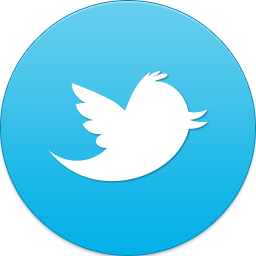
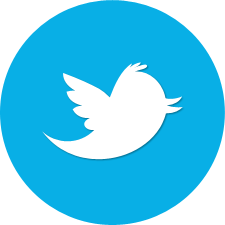
Main UI work

diff --git a/AVFios/www/views/main.html b/AVFios/www/views/main.html
@@ -1,22 +1,27 @@
 <div id="main" class="container-fluid">
-	<div id="mainRow" class="span12">		
-		<div class="span2 hero-unit">
-			Test
-		</div>
-		<div class="span2 hero-unit">
-			Test
-		</div>
-		<div class="span2 hero-unit">
-			Test
-		</div>
+	<div id="mainRow" class="span12">
+		<a href="#/youtube">
+			<div id="logoYt" class="span2 hero-unit">		
+			</div>
+		</a>		
+		<a href="#/twitter">
+			<div id="logoTw" class="span2 hero-unit">	
+			</div>
+		</a>
+		<a href="#/native">
+			<div id="logoNt" class="span2 hero-unit">		
+			</div>
+		</a>
 	</div>
 	<div id="mainRow" class="span12">		
-		<div class="span4 hero-unit">
-			Test
-		</div>
-		<div class="span4 hero-unit">
-			Test
-		</div>
+		<a href="#/mash1">
+			<div id="logoMash1" class="span2 hero-unit">		
+			</div>
+		</a>
+		<a href="#/mash2">
+			<div id="logoMash2" class="span2 hero-unit">		
+			</div>
+		</a>
 	</div>
 	<div id="mainRow" class="span12">		
 		<div class="span2 hero-unit">

diff --git a/AVFios/www/styles/main.css b/AVFios/www/styles/main.css
@@ -146,6 +146,35 @@ div#main .hero-unit{
 div#mainRow {
 	margin-left: 64px;
 }
+div#logoTw.hero-unit{
+	background: #08afe6 url(../img/twitter.png) no-repeat center center;
+	padding-top: 80px;
+	padding-bottom: 80px;
+}
+div#logoYt.hero-unit {
+	background: #dadada url(../img/youtube.png) no-repeat center center;
+	padding-top: 80px;
+	padding-bottom: 80px;
+}
+div#logoNt.hero-unit {
+	background: #dadada url(../img/cordova.png) no-repeat center center;
+	padding-top: 80px;
+	padding-bottom: 80px;
+}
+div#logoMash1.hero-unit {
+	background: url(../img/mash1.png) no-repeat center center;
+	padding-top: 80px;
+	padding-bottom: 80px;
+	padding-left: 130px;
+	padding-right: 130px;
+}
+div#logoMash2.hero-unit {
+	background: url(../img/mash2.png) no-repeat center center;
+	padding-top: 80px;
+	padding-bottom: 80px;
+	padding-left: 130px;
+	padding-right: 130px;
+}
 /* Native Page */
 
 
